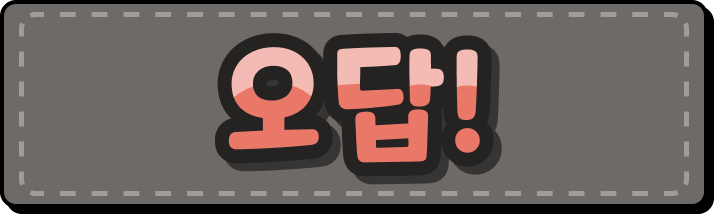
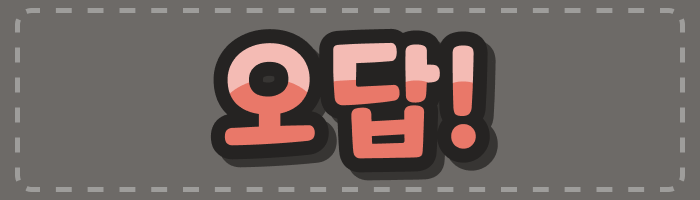
optimize image done

diff --git a/src/components/layout/QuestionContainer.module.css b/src/components/layout/QuestionContainer.module.css
@@ -42,8 +42,8 @@
 .question-problem {
   width: 708px;
   height: 208px;
-  background: url("../../assets/box/box_content_default_temp.png") center
-    center/auto no-repeat transparent;
+  background: url("../../assets/box/box_content_default.png") center center/auto
+    no-repeat transparent;
 
   border-radius: 12px;
   border: 4px solid black;
@@ -89,13 +89,13 @@
 }
 
 .correct {
-  background-image: url("../../assets/box/box_true_temp.png");
+  background-image: url("../../assets/box/box_true.png");
 }
 
 .wrong {
-  background-image: url("../../assets/box/box_false_temp.png");
+  background-image: url("../../assets/box/box_false.png");
 }
 
 .done {
-  background-image: url("../../../src/assets/box/box_content_results_temp.png");
+  background-image: url("../../../src/assets/box/box_content_results.png");
 }
